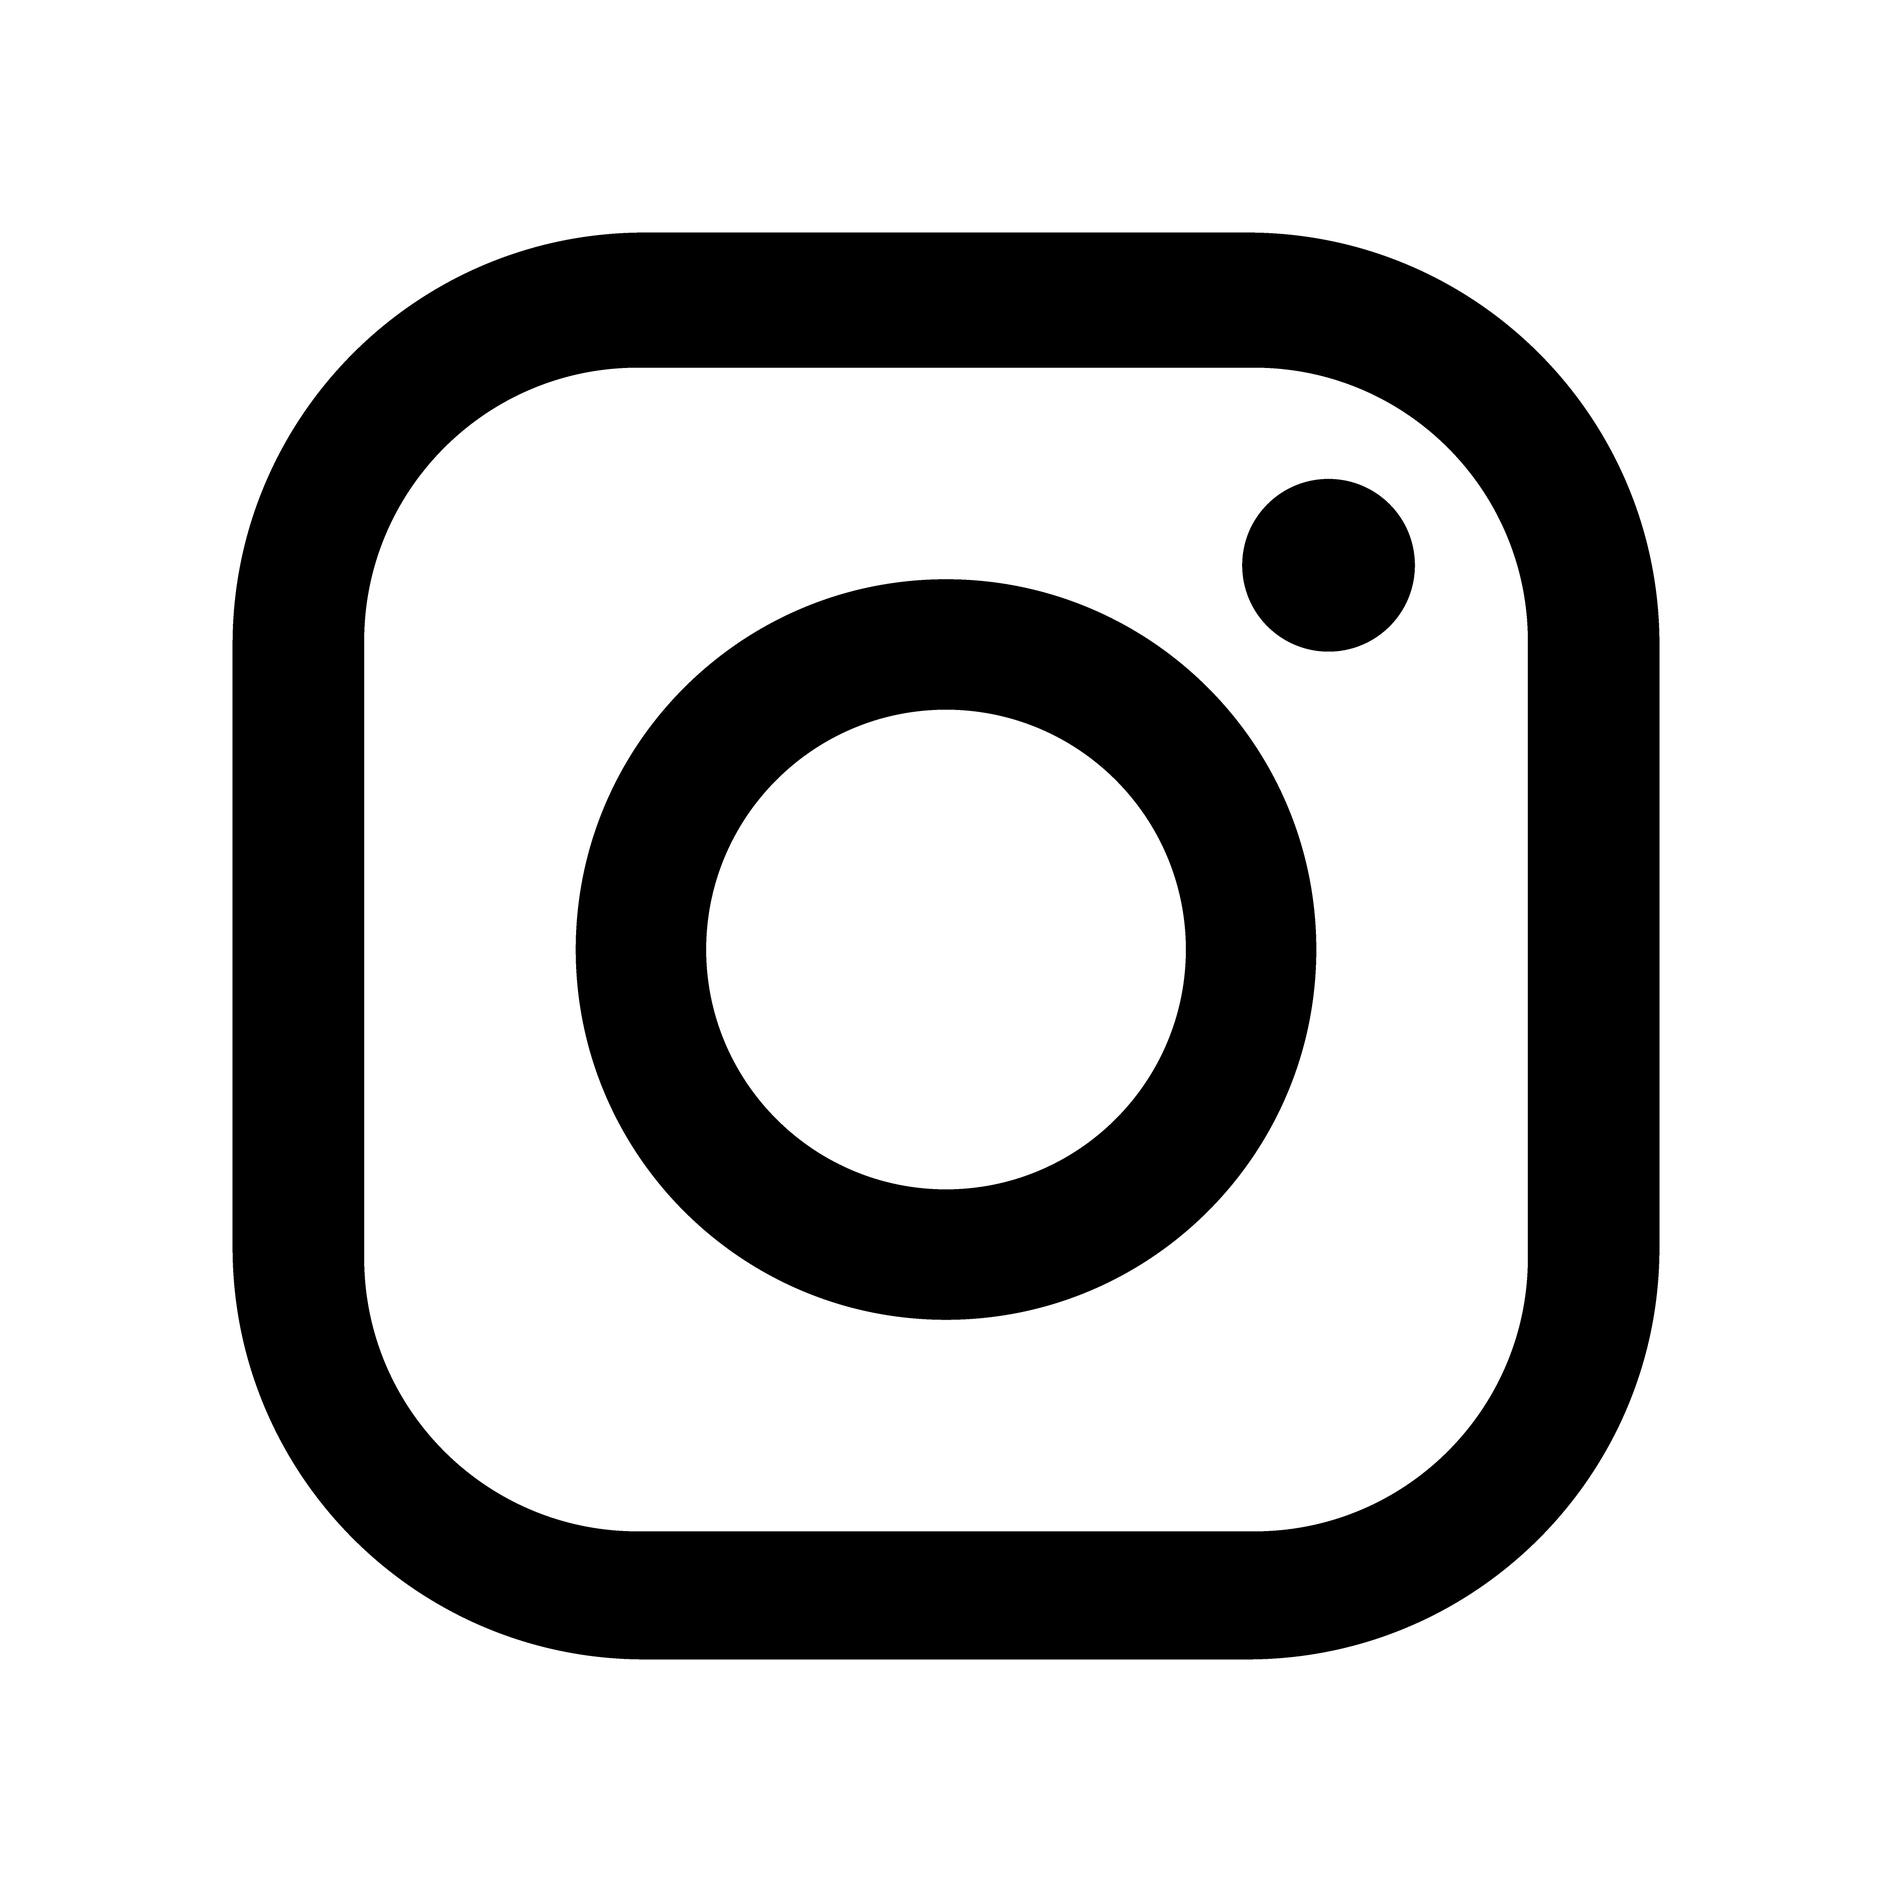
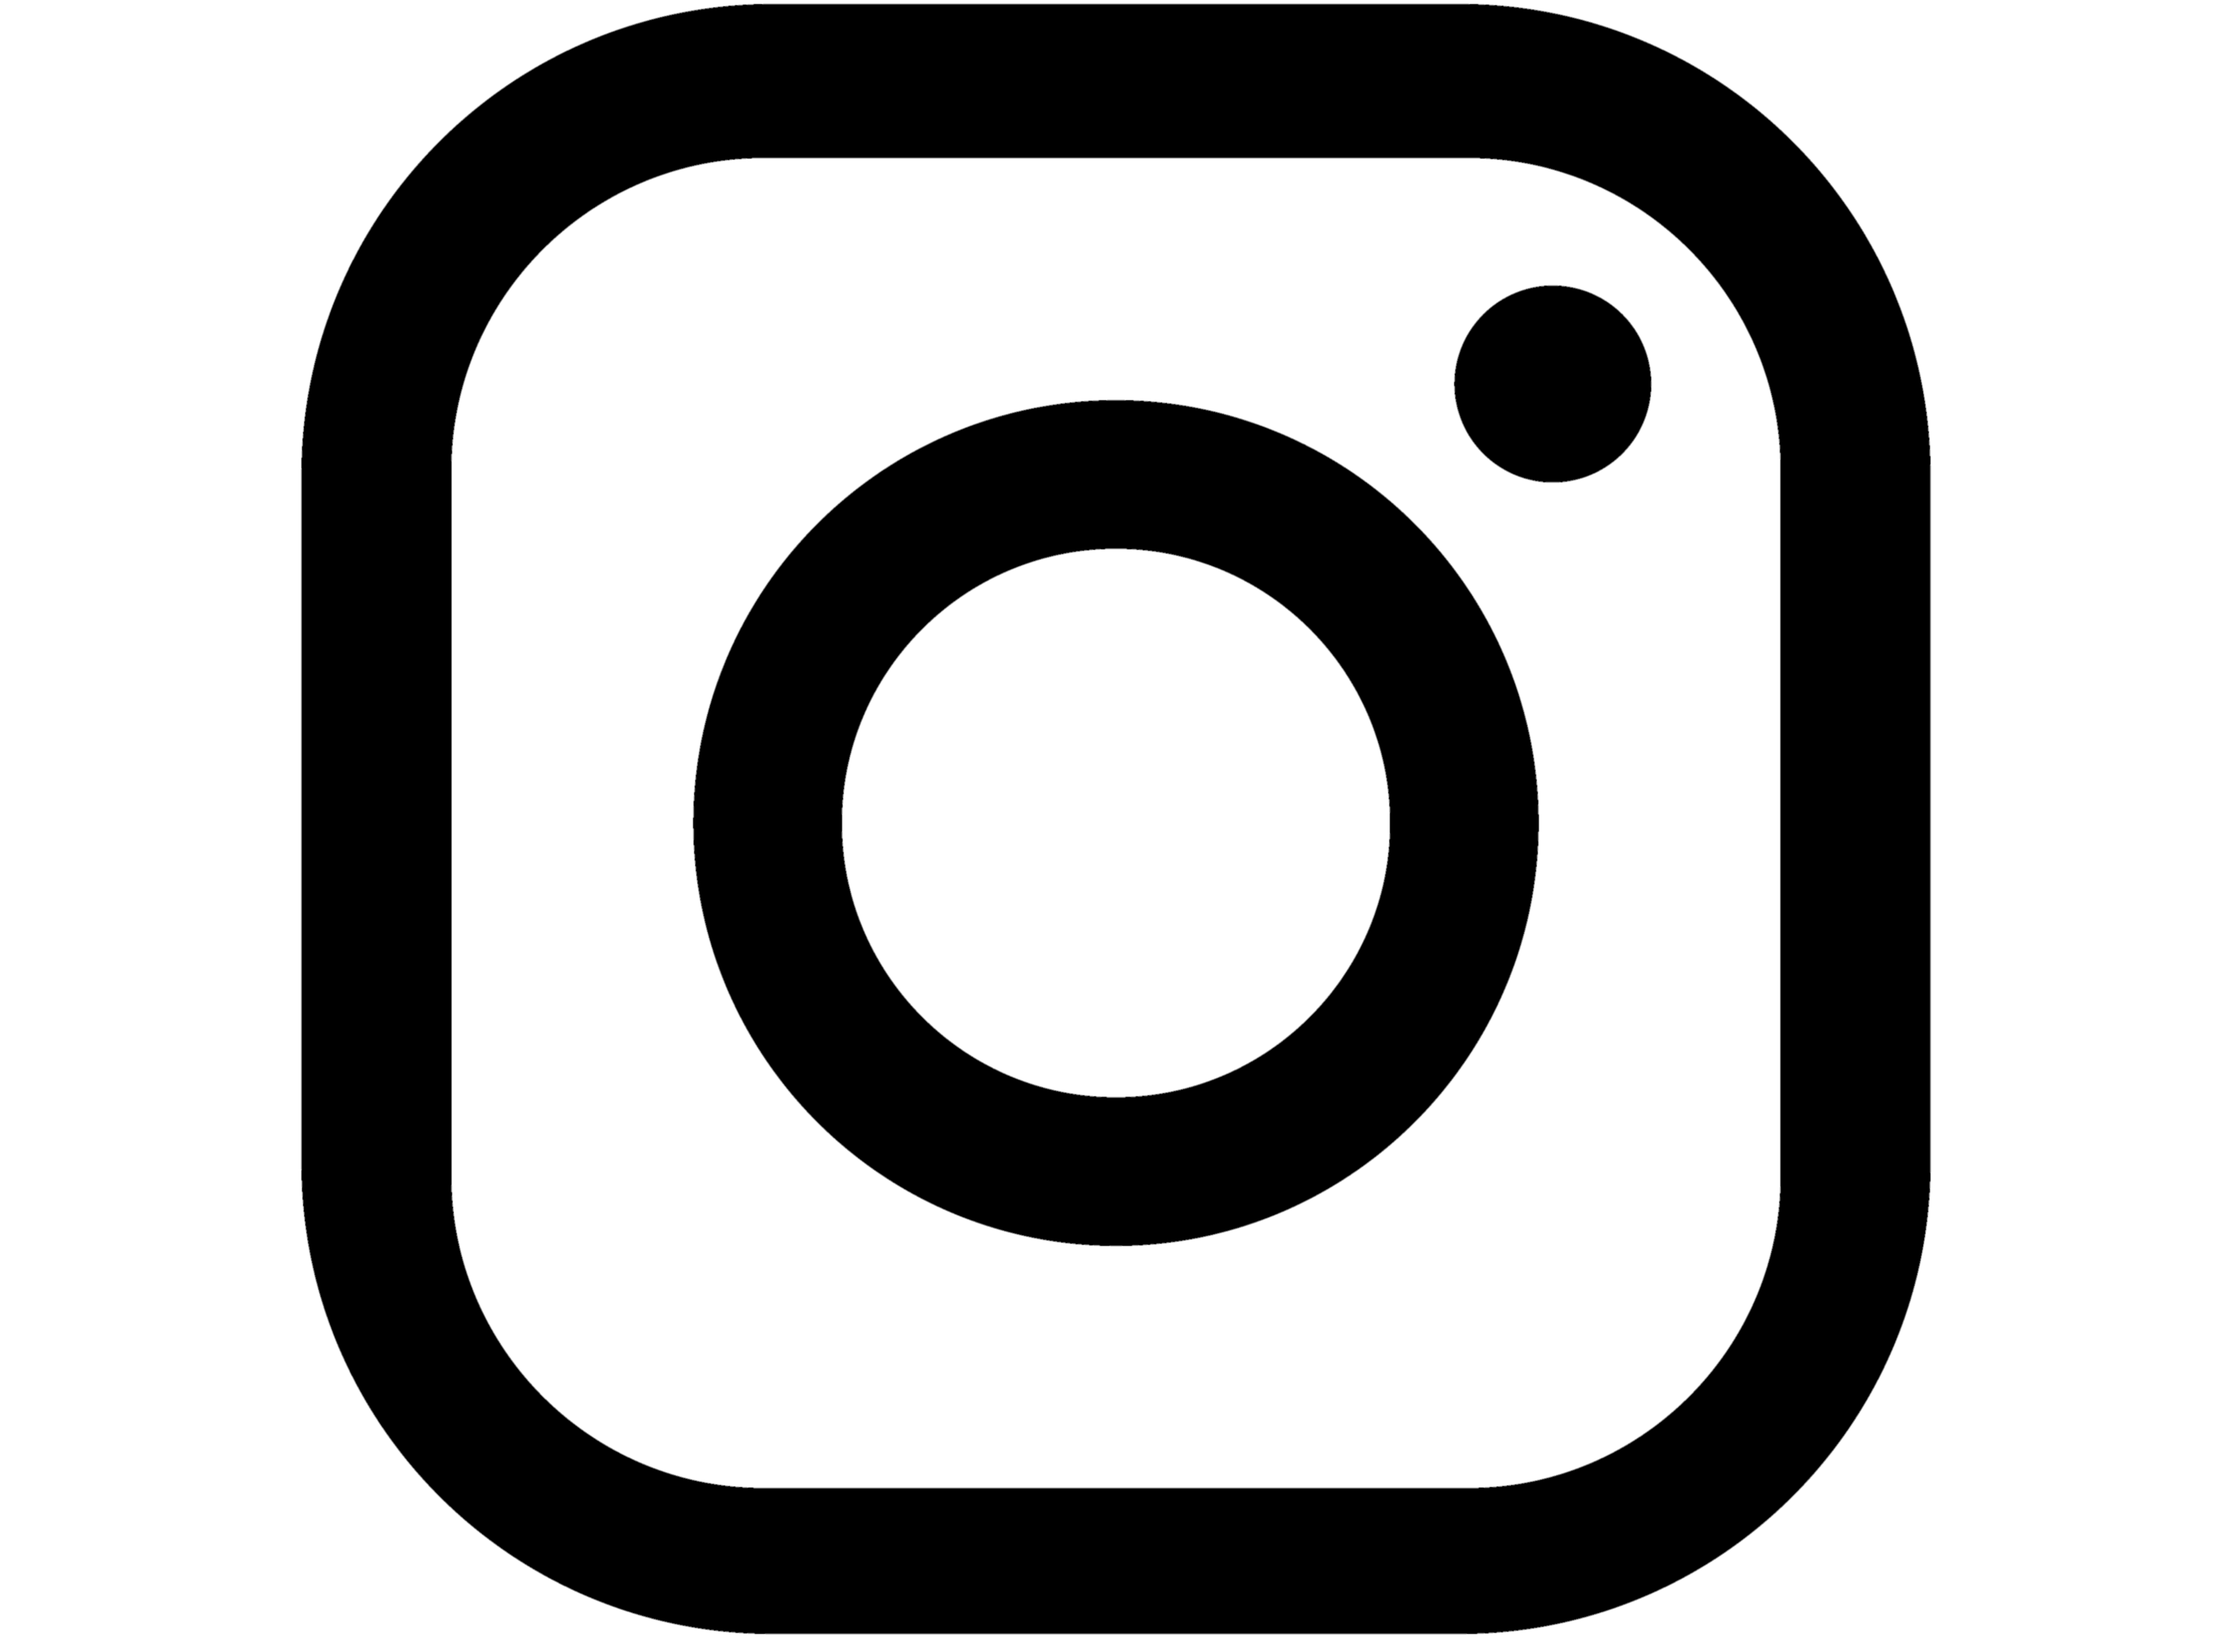
changes
changes to img directory
changes to how logo is diplayed

diff --git a/index.html b/index.html
@@ -15,12 +15,15 @@
         <hr>
 
         <section>
-            <p> Check Out my Guinea Pig updates below!
-                 <a href="https://www.youtube.com/@GuineaGlimpses">
-                    <img class="titleimg" width="30" height="25" src="Images\youtubeplay.png" alt="Youtubes" > </a>
-                <a href="https://www.instagram.com/guineaglimpses/">
-                    <img class="titleimg" width="35" height="35" src="Images\insta.png" alt="Insta" > </a>
-                </p>
+            <p> Check Out my Guinea Pig updates below!</p>
+            <div class="logo-container">
+                <a href="https://www.youtube.com/@GuineaGlimpses">
+                    <img class="titleimg" width="25" height="20" src="Images\youtubeplay.png" alt="Youtubes"  class="logo"> </a>
+                <a class="insta" href="https://www.instagram.com/guineaglimpses/">
+                    <img class="titleimg" width="25" height="20" src="Images\insta.png" alt="Insta" class="logo"> </a>
+            </div>
+            
+                
         </section>
         <hr>
         

diff --git a/css/styles.css b/css/styles.css
@@ -1,5 +1,5 @@
 body {
-    background-image: url( ../Images/meadow-5648849_1280.jpg );
+    background-image: url( ../Images/meadow-grass.jpg );
     background-size: cover;
 }
 
@@ -32,6 +32,12 @@ h1, p {
     border-color: palevioletred;
   }
 
-  a {
-    display: inline;
+ .logo {
+    width: 100px; /* Adjust width as needed */
+    height: auto;
   }
+
+  .logo-container {
+    display: flex;
+    justify-content: center;
+    gap: 5px; /* Adjust gap as needed */
